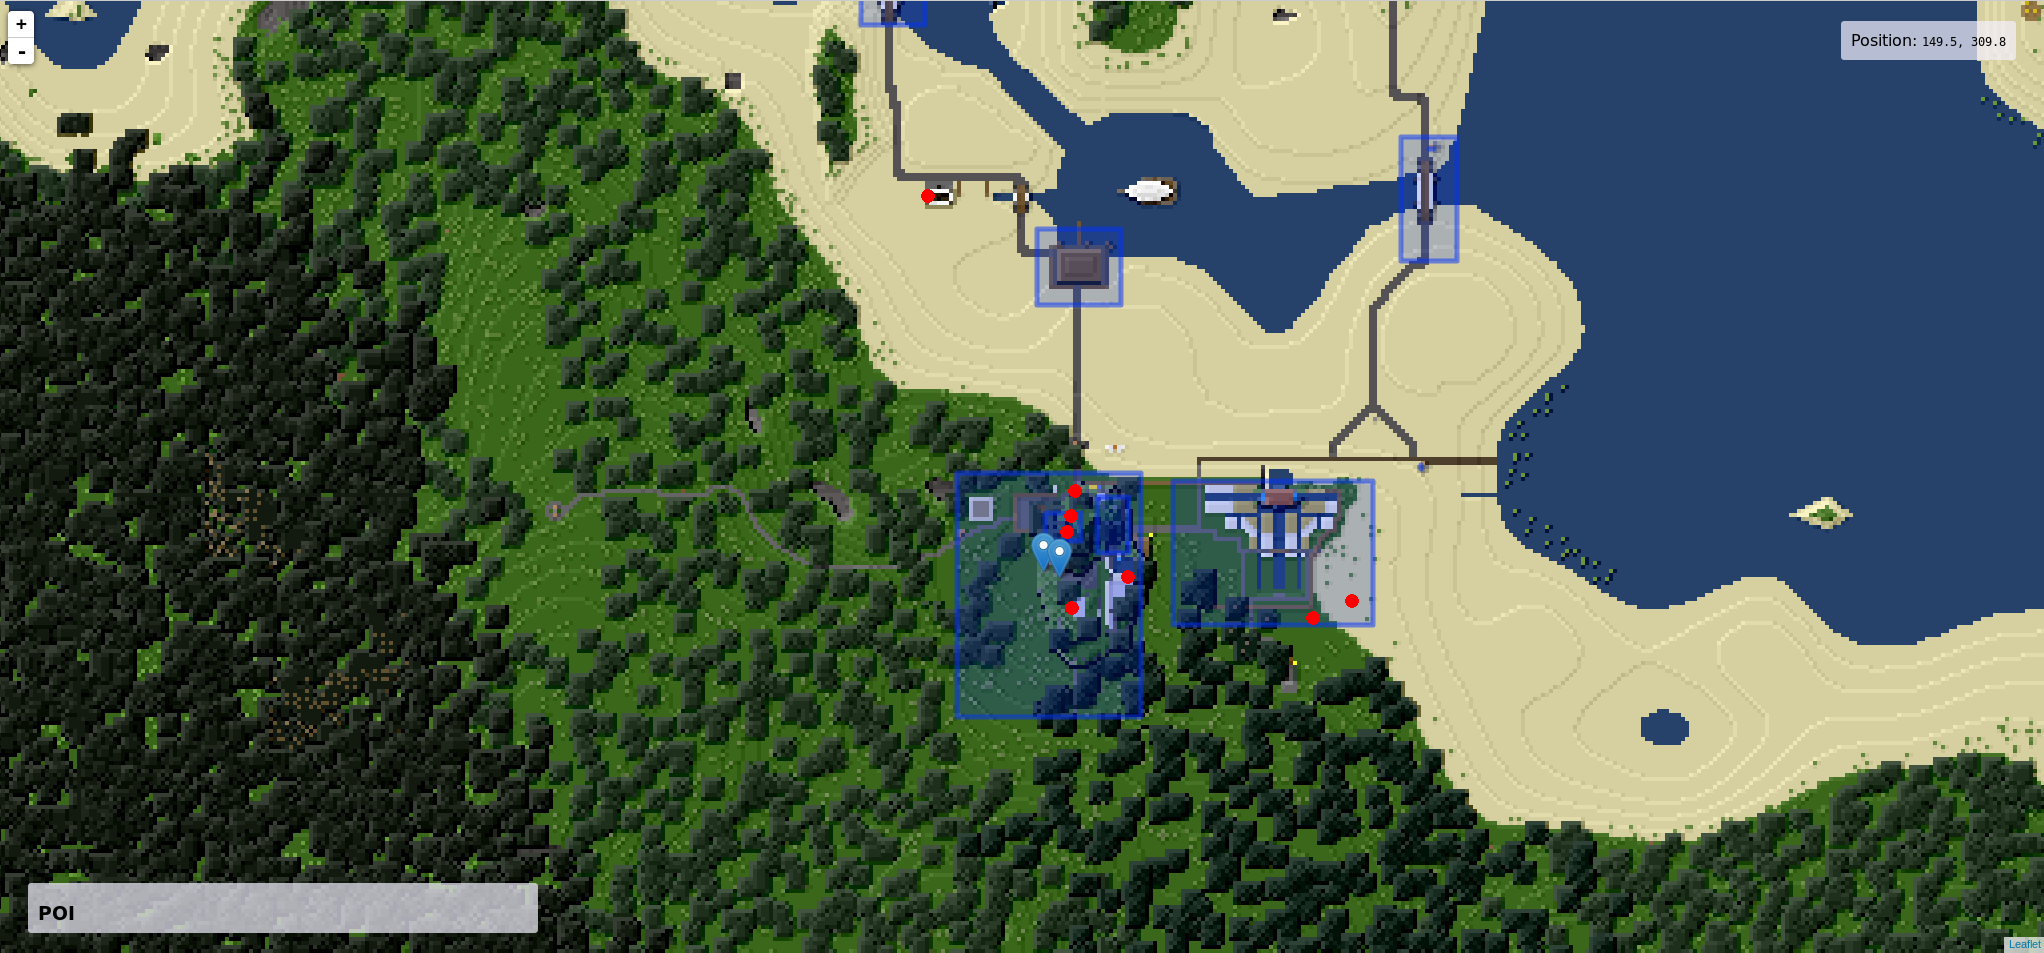
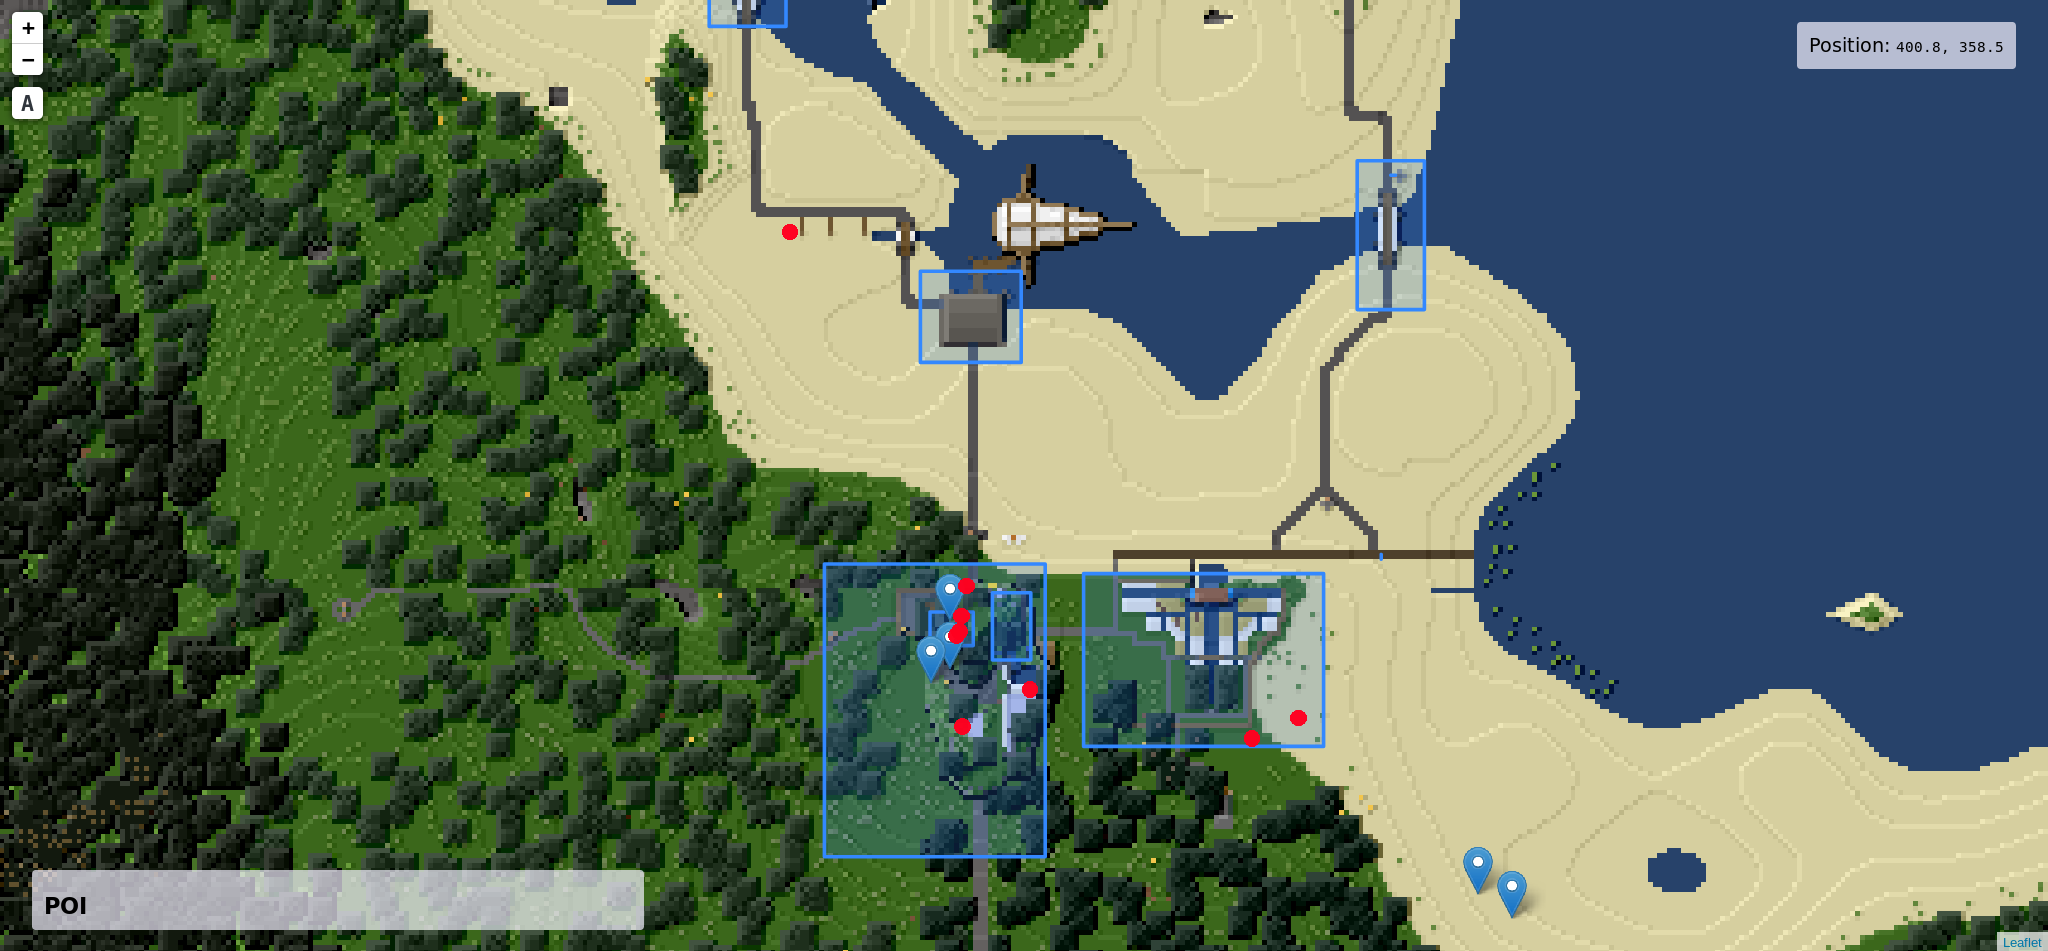
Use markers for travelnet destinations

diff --git a/src/main/resources/static/www/poi.js b/src/main/resources/static/www/poi.js
@@ -11,15 +11,6 @@ var LeafIcon = L.Icon.extend({
 
 var playerIcon = new LeafIcon({iconUrl: 'images/player.png'});
 
-function addMarkers(locations){
-    locations.forEach(function(location, index){
-            L.marker([location.x, location.z])
-             .addTo(map)
-             .bindPopup(""+location.name + " (" + location.x + ", " + location.y + ", " + location.z+")");
-        }
-    );
-}
-
 function addAreas(){
       $.getJSON("/areas",
         (data) => {
@@ -42,29 +33,28 @@ function listPOI(){
     var list = document.getElementById('map-navigation');
 
     $.getJSON("/travelnets",
-            (travelnets) => {
-                Object.keys(travelnets["porters"])
-                      .forEach((key,index) => {
-                              console.log(key)
-                              var listElement = document.createElement("li");
+        (travelnets) => {
+            Object.keys(travelnets["porters"])
+              .forEach((key,index) => {
+                  var listElement = document.createElement("li");
 
-                              var porter = travelnets["porters"][key];
+                  var porter = travelnets["porters"][key];
 
-                              var link = document.createElement("a");
-                              link.setAttribute("data-position", porter.pos.x + "," + porter.pos.z);
-                              link.setAttribute("href", "#");
-                              var node = document.createTextNode(key);
-                              link.appendChild(node);
+                  var link = document.createElement("a");
+                  link.setAttribute("data-position", porter.pos.x + "," + porter.pos.z);
+                  link.setAttribute("href", "#");
+                  var node = document.createTextNode(key);
+                  link.appendChild(node);
 
-                              listElement.appendChild(link);
+                  listElement.appendChild(link);
 
-                              list.appendChild(listElement);
-
-                      })
-
-
-
-            }
+                  list.appendChild(listElement);
+                  
+                  L.marker([porter.pos.x, porter.pos.z])
+                   .addTo(map)
+                   .bindPopup(""+ key + " (" + porter.pos.x + ", " + porter.pos.y + ", " + porter.pos.z+")");
+            })
+        }
     );
 }
 
